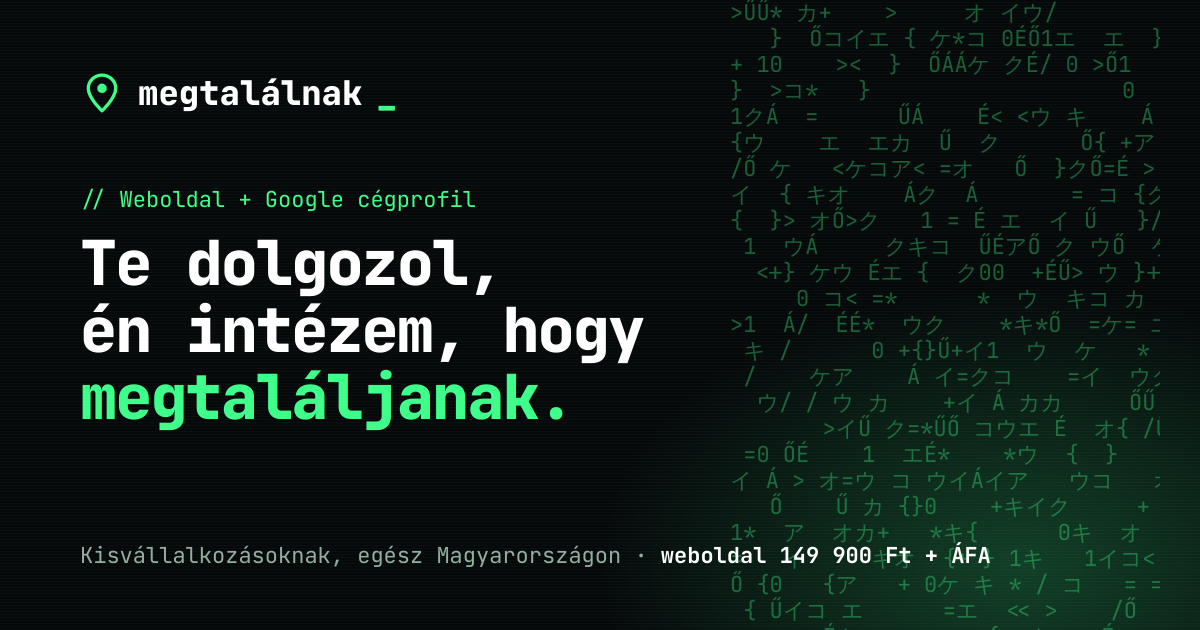
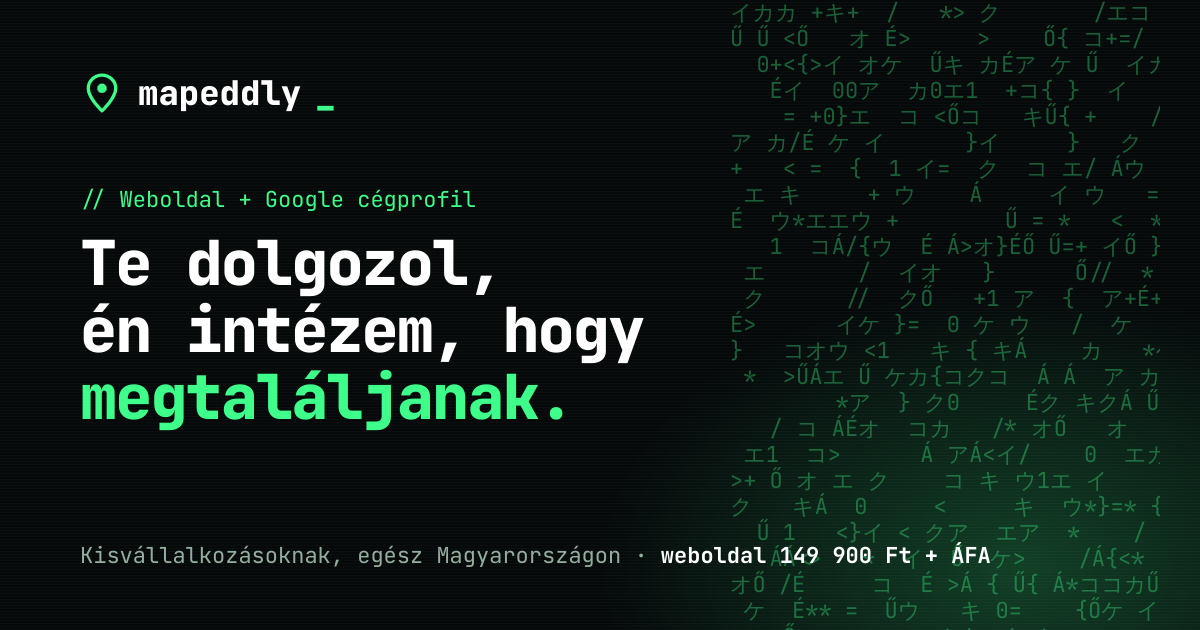
Átállás mapeddly.com domainre

Changed region(s): [[0.5858, 0.0, 0.9867, 1.0], [0.6167, 0.8746, 0.7092, 1.0], [0.1233, 0.1206, 0.3392, 0.181]]

diff --git a/index.html b/index.html
@@ -3,21 +3,21 @@
 <head>
 <meta charset="utf-8">
 <meta name="viewport" content="width=device-width, initial-scale=1, viewport-fit=cover">
-<title>Weboldal készítés és Google cégprofil | Megtalálnak</title>
+<title>Weboldal készítés és Google cégprofil | Mapeddly</title>
 <meta name="description" content="Weboldal készítés kisvállalkozásoknak és vállalkozóknak egész Magyarországon: gyors, mobilbarát honlap, Google cégprofil beállítás és havidíjas karbantartás. Kérj ingyenes ajánlatot!">
 <meta property="og:type" content="website">
-<meta property="og:title" content="Weboldal készítés és Google cégprofil | Megtalálnak">
+<meta property="og:title" content="Weboldal készítés és Google cégprofil | Mapeddly">
 <meta property="og:description" content="Te dolgozol, én intézem, hogy megtaláljanak.">
-<meta property="og:url" content="https://techmoon7.github.io/megtalalnak/">
-<meta property="og:image" content="https://techmoon7.github.io/megtalalnak/assets/img/og-image.png">
+<meta property="og:url" content="https://mapeddly.com/">
+<meta property="og:image" content="https://mapeddly.com/assets/img/og-image.png">
 <meta property="og:image:width" content="1200">
 <meta property="og:image:height" content="630">
 <meta name="twitter:card" content="summary_large_image">
 <meta property="og:locale" content="hu_HU">
-<link rel="canonical" href="https://techmoon7.github.io/megtalalnak/">
-<link rel="alternate" hreflang="hu" href="https://techmoon7.github.io/megtalalnak/">
-<link rel="alternate" hreflang="en" href="https://techmoon7.github.io/megtalalnak/en/">
-<link rel="alternate" hreflang="x-default" href="https://techmoon7.github.io/megtalalnak/">
+<link rel="canonical" href="https://mapeddly.com/">
+<link rel="alternate" hreflang="hu" href="https://mapeddly.com/">
+<link rel="alternate" hreflang="en" href="https://mapeddly.com/en/">
+<link rel="alternate" hreflang="x-default" href="https://mapeddly.com/">
 <link rel="apple-touch-icon" href="assets/img/apple-touch-icon.png">
 <link rel="icon" href="assets/img/favicon.svg" type="image/svg+xml">
 <link rel="preload" href="assets/fonts/jetbrains-mono-latin-800-normal.woff2" as="font" type="font/woff2" crossorigin>
@@ -25,7 +25,7 @@
 <link rel="stylesheet" href="assets/fonts/fonts.css">
 <link rel="stylesheet" href="assets/css/style.css">
 <script type="application/ld+json">
-{"@context":"https://schema.org","@type":"ProfessionalService","name":"Megtalálnak","founder":{"@type":"Person","name":"Hantos István"},"description":"Weboldal készítés, honlapkészítés és Google cégprofil beállítás kisvállalkozásoknak egész Magyarországon.","telephone":"+36 20 667 1832","email":"contactcreativefabrication@gmail.com","areaServed":{"@type":"Country","name":"Magyarország"},"serviceType":["Weboldal készítés","Honlapkészítés","Google cégprofil beállítás","Weboldal karbantartás"],"image":"https://techmoon7.github.io/megtalalnak/assets/img/og-image.png","url":"https://techmoon7.github.io/megtalalnak/"}
+{"@context":"https://schema.org","@type":"ProfessionalService","name":"Mapeddly","founder":{"@type":"Person","name":"Hantos István"},"description":"Weboldal készítés, honlapkészítés és Google cégprofil beállítás kisvállalkozásoknak egész Magyarországon.","telephone":"+36 20 667 1832","email":"contactcreativefabrication@gmail.com","areaServed":{"@type":"Country","name":"Magyarország"},"serviceType":["Weboldal készítés","Honlapkészítés","Google cégprofil beállítás","Weboldal karbantartás"],"image":"https://mapeddly.com/assets/img/og-image.png","url":"https://mapeddly.com/"}
 </script>
 </head>
 <body>
@@ -33,9 +33,9 @@
 
 <header class="top">
 <div class="wrap">
-<a class="brand" href="#tartalom" aria-label="Megtalálnak – az oldal eleje">
+<a class="brand" href="#tartalom" aria-label="Mapeddly – az oldal eleje">
 <svg aria-hidden="true" width="30" height="30" viewBox="0 0 32 32"><path d="M16 3c-5.5 0-10 4.3-10 9.6C6 19.6 16 29 16 29s10-9.4 10-16.4C26 7.3 21.5 3 16 3z" fill="none" stroke="#3DFF8A" stroke-width="2.4"></path><circle cx="16" cy="12.6" r="3.4" fill="#3DFF8A"></circle></svg>
-megtalálnak<span class="dot">_</span></a>
+mapeddly<span class="dot">_</span></a>
 <nav class="nav" aria-label="Fő menü">
 <a href="#csomagok">Csomagok</a>
 <a href="#gyik">Kérdések</a>
@@ -266,10 +266,10 @@ megtalálnak<span class="dot">_</span></a>
 
 <footer class="foot">
 <div class="wrap">
-<div><a class="brand" href="#tartalom">megtalálnak<span class="dot">_</span></a><p>Weboldal készítés és Google cégprofil kisvállalkozásoknak, egész Magyarországon.</p></div>
+<div><a class="brand" href="#tartalom">mapeddly<span class="dot">_</span></a><p>Weboldal készítés és Google cégprofil kisvállalkozásoknak, egész Magyarországon.</p></div>
 <div><strong>Elérhetőség</strong><p><a href="tel:+36206671832">+36 20 667 1832</a><br><a href="mailto:contactcreativefabrication@gmail.com">contactcreativefabrication@gmail.com</a><br><a href="https://wa.me/36206671832" target="_blank" rel="noopener">WhatsApp</a></p></div>
 <div><strong>Impresszum</strong><p>Üzemeltető: Hantos István<br>Cím: 2064 Csabdi, Szőlő-Sor utca 3<br>Tárhely: GitHub, Inc.</p></div>
-<div class="legal"><span>© 2026 Megtalálnak · Hantos István</span><span class="legal-links"><a href="impresszum.html">Impresszum</a><a href="adatvedelem.html">Adatkezelési tájékoztató</a></span></div>
+<div class="legal"><span>© 2026 Mapeddly · Hantos István</span><span class="legal-links"><a href="impresszum.html">Impresszum</a><a href="adatvedelem.html">Adatkezelési tájékoztató</a></span></div>
 </div>
 </footer>
 
@@ -278,7 +278,7 @@ megtalálnak<span class="dot">_</span></a>
 <script>
 (function(){
   var c=document.getElementById('rain');if(!c||!c.getContext)return;
-  var x=c.getContext('2d'),chars='01アイウエオカキクケコサシスセソ<>/{}=+*ÁÉŐŰMEGTALÁLNAK'.split(''),fs=16,cols,drops,w,h;
+  var x=c.getContext('2d'),chars='01アイウエオカキクケコサシスセソ<>/{}=+*ÁÉŐŰMAPEDDLY'.split(''),fs=16,cols,drops,w,h;
   function size(){var r=c.getBoundingClientRect(),d=Math.min(window.devicePixelRatio||1,2);w=r.width;h=r.height;c.width=w*d;c.height=h*d;x.setTransform(d,0,0,d,0,0);cols=Math.ceil(w/fs);drops=[];for(var i=0;i<cols;i++)drops[i]=Math.random()*-h/fs;x.fillStyle='#05090A';x.fillRect(0,0,w,h)}
   function frame(){x.fillStyle='rgba(5,9,10,0.06)';x.fillRect(0,0,w,h);x.font=fs+'px "JetBrains Mono",monospace';
     for(var i=0;i<cols;i++){var ch=chars[(Math.random()*chars.length)|0],y=drops[i]*fs;
@@ -299,7 +299,7 @@ megtalálnak<span class="dot">_</span></a>
     if(navigator.clipboard)navigator.clipboard.writeText(t).then(done,function(){});
   })});
   var form=document.getElementById('ajanlat'),msg=document.getElementById('f-msg');if(!form)return;
-  var T={name:'Kérlek, add meg a neved.',tel:'Kérlek, add meg a telefonszámod, hogy vissza tudjalak hívni.',mail:'Ez az e-mail cím nem tűnik helyesnek.',msg:'Írj pár szót arról, mire van szükséged.',ok:'Az elküldéshez fogadd el az adatkezelési tájékoztatót.',opening:'Megnyílt a WhatsApp az előre megírt üzenettel. Ha nem nyílt meg, írj közvetlenül: ',sending:'Küldés…',sent:'Köszönöm, megkaptam az üzeneted! Hamarosan jelentkezem.',failed:'Nem sikerült elküldeni. Próbáld WhatsAppon, vagy írj közvetlenül: ',hello:'Szia! Ajánlatot kérnék a megtalalnak oldalról.',n:'Név',ph:'Telefon',em:'E-mail',b:'Tevékenység',p:'Csomag',w:'Jelenlegi weboldal',m:'Üzenet',subj:'Ajánlatkérés – weboldal'};
+  var T={name:'Kérlek, add meg a neved.',tel:'Kérlek, add meg a telefonszámod, hogy vissza tudjalak hívni.',mail:'Ez az e-mail cím nem tűnik helyesnek.',msg:'Írj pár szót arról, mire van szükséged.',ok:'Az elküldéshez fogadd el az adatkezelési tájékoztatót.',opening:'Megnyílt a WhatsApp az előre megírt üzenettel. Ha nem nyílt meg, írj közvetlenül: ',sending:'Küldés…',sent:'Köszönöm, megkaptam az üzeneted! Hamarosan jelentkezem.',failed:'Nem sikerült elküldeni. Próbáld WhatsAppon, vagy írj közvetlenül: ',hello:'Szia! Ajánlatot kérnék a mapeddly.com oldalról.',n:'Név',ph:'Telefon',em:'E-mail',b:'Tevékenység',p:'Csomag',w:'Jelenlegi weboldal',m:'Üzenet',subj:'Ajánlatkérés – weboldal'};
   var via='send';form.querySelectorAll('[data-via]').forEach(function(b){b.addEventListener('click',function(){via=b.getAttribute('data-via')})});
   var sendBtn=form.querySelector('[data-via="send"]'),sendLabel=sendBtn.textContent;
   function say(t,cls){msg.hidden=false;msg.className='form-msg'+(cls?' '+cls:'');msg.textContent=t}

diff --git a/en/index.html b/en/index.html
@@ -3,21 +3,21 @@
 <head>
 <meta charset="utf-8">
 <meta name="viewport" content="width=device-width, initial-scale=1, viewport-fit=cover">
-<title>Small Business Website Design in Hungary | Megtalálnak</title>
+<title>Small Business Website Design in Hungary | Mapeddly</title>
 <meta name="description" content="Website design for small businesses anywhere in Hungary: fast, mobile-friendly websites, Google Business Profile setup and monthly care. Get a free quote.">
 <meta property="og:type" content="website">
-<meta property="og:title" content="Small Business Website Design in Hungary | Megtalálnak">
+<meta property="og:title" content="Small Business Website Design in Hungary | Mapeddly">
 <meta property="og:description" content="You do the work. I make sure you get found.">
-<meta property="og:url" content="https://techmoon7.github.io/megtalalnak/en/">
-<meta property="og:image" content="https://techmoon7.github.io/megtalalnak/assets/img/og-image.png">
+<meta property="og:url" content="https://mapeddly.com/en/">
+<meta property="og:image" content="https://mapeddly.com/assets/img/og-image.png">
 <meta property="og:image:width" content="1200">
 <meta property="og:image:height" content="630">
 <meta name="twitter:card" content="summary_large_image">
 <meta property="og:locale" content="en_GB">
-<link rel="canonical" href="https://techmoon7.github.io/megtalalnak/en/">
-<link rel="alternate" hreflang="hu" href="https://techmoon7.github.io/megtalalnak/">
-<link rel="alternate" hreflang="en" href="https://techmoon7.github.io/megtalalnak/en/">
-<link rel="alternate" hreflang="x-default" href="https://techmoon7.github.io/megtalalnak/">
+<link rel="canonical" href="https://mapeddly.com/en/">
+<link rel="alternate" hreflang="hu" href="https://mapeddly.com/">
+<link rel="alternate" hreflang="en" href="https://mapeddly.com/en/">
+<link rel="alternate" hreflang="x-default" href="https://mapeddly.com/">
 <link rel="apple-touch-icon" href="../assets/img/apple-touch-icon.png">
 <link rel="icon" href="../assets/img/favicon.svg" type="image/svg+xml">
 <link rel="preload" href="../assets/fonts/jetbrains-mono-latin-800-normal.woff2" as="font" type="font/woff2" crossorigin>
@@ -25,7 +25,7 @@
 <link rel="stylesheet" href="../assets/fonts/fonts.css">
 <link rel="stylesheet" href="../assets/css/style.css">
 <script type="application/ld+json">
-{"@context":"https://schema.org","@type":"ProfessionalService","name":"Megtalálnak","founder":{"@type":"Person","name":"Hantos István"},"description":"Website design and Google Business Profile setup for small businesses across Hungary.","telephone":"+36 20 667 1832","email":"contactcreativefabrication@gmail.com","areaServed":{"@type":"Country","name":"Hungary"},"serviceType":["Website design","Google Business Profile setup","Website maintenance"],"image":"https://techmoon7.github.io/megtalalnak/assets/img/og-image.png","url":"https://techmoon7.github.io/megtalalnak/en/"}
+{"@context":"https://schema.org","@type":"ProfessionalService","name":"Mapeddly","founder":{"@type":"Person","name":"Hantos István"},"description":"Website design and Google Business Profile setup for small businesses across Hungary.","telephone":"+36 20 667 1832","email":"contactcreativefabrication@gmail.com","areaServed":{"@type":"Country","name":"Hungary"},"serviceType":["Website design","Google Business Profile setup","Website maintenance"],"image":"https://mapeddly.com/assets/img/og-image.png","url":"https://mapeddly.com/en/"}
 </script>
 </head>
 <body>
@@ -33,9 +33,9 @@
 
 <header class="top">
 <div class="wrap">
-<a class="brand" href="#tartalom" aria-label="Megtalálnak – top of page">
+<a class="brand" href="#tartalom" aria-label="Mapeddly – top of page">
 <svg aria-hidden="true" width="30" height="30" viewBox="0 0 32 32"><path d="M16 3c-5.5 0-10 4.3-10 9.6C6 19.6 16 29 16 29s10-9.4 10-16.4C26 7.3 21.5 3 16 3z" fill="none" stroke="#3DFF8A" stroke-width="2.4"></path><circle cx="16" cy="12.6" r="3.4" fill="#3DFF8A"></circle></svg>
-megtalálnak<span class="dot">_</span></a>
+mapeddly<span class="dot">_</span></a>
 <nav class="nav" aria-label="Main menu">
 <a href="#csomagok">Packages</a>
 <a href="#gyik">FAQ</a>
@@ -266,10 +266,10 @@ megtalálnak<span class="dot">_</span></a>
 
 <footer class="foot">
 <div class="wrap">
-<div><a class="brand" href="#tartalom">megtalálnak<span class="dot">_</span></a><p>Website design and Google Business Profile setup for small businesses across Hungary.</p></div>
+<div><a class="brand" href="#tartalom">mapeddly<span class="dot">_</span></a><p>Website design and Google Business Profile setup for small businesses across Hungary.</p></div>
 <div><strong>Contact</strong><p><a href="tel:+36206671832">+36 20 667 1832</a><br><a href="mailto:contactcreativefabrication@gmail.com">contactcreativefabrication@gmail.com</a><br><a href="https://wa.me/36206671832" target="_blank" rel="noopener">WhatsApp</a></p></div>
 <div><strong>Legal notice</strong><p>Operator: István Hantos<br>Address: Szőlő-Sor utca 3, 2064 Csabdi, Hungary<br>Hosting: GitHub, Inc.</p></div>
-<div class="legal"><span>© 2026 Megtalálnak · Hantos István</span><span class="legal-links"><a href="imprint.html">Legal notice</a><a href="privacy.html">Privacy notice</a></span></div>
+<div class="legal"><span>© 2026 Mapeddly · Hantos István</span><span class="legal-links"><a href="imprint.html">Legal notice</a><a href="privacy.html">Privacy notice</a></span></div>
 </div>
 </footer>
 
@@ -278,7 +278,7 @@ megtalálnak<span class="dot">_</span></a>
 <script>
 (function(){
   var c=document.getElementById('rain');if(!c||!c.getContext)return;
-  var x=c.getContext('2d'),chars='01アイウエオカキクケコサシスセソ<>/{}=+*ÁÉŐŰMEGTALÁLNAK'.split(''),fs=16,cols,drops,w,h;
+  var x=c.getContext('2d'),chars='01アイウエオカキクケコサシスセソ<>/{}=+*ÁÉŐŰMAPEDDLY'.split(''),fs=16,cols,drops,w,h;
   function size(){var r=c.getBoundingClientRect(),d=Math.min(window.devicePixelRatio||1,2);w=r.width;h=r.height;c.width=w*d;c.height=h*d;x.setTransform(d,0,0,d,0,0);cols=Math.ceil(w/fs);drops=[];for(var i=0;i<cols;i++)drops[i]=Math.random()*-h/fs;x.fillStyle='#05090A';x.fillRect(0,0,w,h)}
   function frame(){x.fillStyle='rgba(5,9,10,0.06)';x.fillRect(0,0,w,h);x.font=fs+'px "JetBrains Mono",monospace';
     for(var i=0;i<cols;i++){var ch=chars[(Math.random()*chars.length)|0],y=drops[i]*fs;
@@ -299,7 +299,7 @@ megtalálnak<span class="dot">_</span></a>
     if(navigator.clipboard)navigator.clipboard.writeText(t).then(done,function(){});
   })});
   var form=document.getElementById('ajanlat'),msg=document.getElementById('f-msg');if(!form)return;
-  var T={name:'Please enter your name.',tel:'Please enter your phone number so I can call you back.',mail:"This email address doesn't look right.",msg:'Please write a few words about what you need.',ok:'Please accept the privacy notice to continue.',opening:"WhatsApp opened with your message ready. If it didn't open, write to me directly: ",sending:'Sending…',sent:"Thank you, I got your message! I'll be in touch soon.",failed:'Sending failed. Try WhatsApp, or write to me directly: ',hello:"Hi! I'd like a quote, via the megtalalnak site.",n:'Name',ph:'Phone',em:'Email',b:'Business type',p:'Package',w:'Current website',m:'Message',subj:'Quote request – website'};
+  var T={name:'Please enter your name.',tel:'Please enter your phone number so I can call you back.',mail:"This email address doesn't look right.",msg:'Please write a few words about what you need.',ok:'Please accept the privacy notice to continue.',opening:"WhatsApp opened with your message ready. If it didn't open, write to me directly: ",sending:'Sending…',sent:"Thank you, I got your message! I'll be in touch soon.",failed:'Sending failed. Try WhatsApp, or write to me directly: ',hello:"Hi! I'd like a quote, via mapeddly.com.",n:'Name',ph:'Phone',em:'Email',b:'Business type',p:'Package',w:'Current website',m:'Message',subj:'Quote request – website'};
   var via='send';form.querySelectorAll('[data-via]').forEach(function(b){b.addEventListener('click',function(){via=b.getAttribute('data-via')})});
   var sendBtn=form.querySelector('[data-via="send"]'),sendLabel=sendBtn.textContent;
   function say(t,cls){msg.hidden=false;msg.className='form-msg'+(cls?' '+cls:'');msg.textContent=t}

diff --git a/adatvedelem.html b/adatvedelem.html
@@ -3,22 +3,22 @@
 <head>
 <meta charset="utf-8">
 <meta name="viewport" content="width=device-width, initial-scale=1, viewport-fit=cover">
-<title>Adatkezelési tájékoztató – Megtalálnak</title>
-<meta name="description" content="Hogyan kezeli a Megtalálnak weboldal az ajánlatkérő űrlapon és a kapcsolatfelvétel során megadott adatokat.">
-<link rel="canonical" href="https://techmoon7.github.io/megtalalnak/adatvedelem.html">
-<link rel="alternate" hreflang="hu" href="https://techmoon7.github.io/megtalalnak/adatvedelem.html">
-<link rel="alternate" hreflang="en" href="https://techmoon7.github.io/megtalalnak/en/privacy.html">
-<link rel="alternate" hreflang="x-default" href="https://techmoon7.github.io/megtalalnak/adatvedelem.html">
+<title>Adatkezelési tájékoztató – Mapeddly</title>
+<meta name="description" content="Hogyan kezeli a Mapeddly weboldal az ajánlatkérő űrlapon és a kapcsolatfelvétel során megadott adatokat.">
+<link rel="canonical" href="https://mapeddly.com/adatvedelem.html">
+<link rel="alternate" hreflang="hu" href="https://mapeddly.com/adatvedelem.html">
+<link rel="alternate" hreflang="en" href="https://mapeddly.com/en/privacy.html">
+<link rel="alternate" hreflang="x-default" href="https://mapeddly.com/adatvedelem.html">
 <link rel="apple-touch-icon" href="assets/img/apple-touch-icon.png">
 <link rel="icon" href="assets/img/favicon.svg" type="image/svg+xml">
 <link rel="stylesheet" href="assets/fonts/fonts.css">
 <link rel="stylesheet" href="assets/css/style.css">
 </head>
 <body>
-<header class="top"><div class="wrap"><a class="brand" href="index.html"><svg aria-hidden="true" width="30" height="30" viewBox="0 0 32 32"><path d="M16 3c-5.5 0-10 4.3-10 9.6C6 19.6 16 29 16 29s10-9.4 10-16.4C26 7.3 21.5 3 16 3z" fill="none" stroke="#3DFF8A" stroke-width="2.4"></path><circle cx="16" cy="12.6" r="3.4" fill="#3DFF8A"></circle></svg>megtalálnak<span class="dot">_</span></a><nav class="nav" aria-label="Fő menü"><span class="lang-switch" role="group" aria-label="Nyelv / Language"><a href="adatvedelem.html" hreflang="hu" lang="hu" aria-current="true">HU</a><a href="en/privacy.html" hreflang="en" lang="en">EN</a></span><a class="btn btn-primary" href="index.html#kapcsolat">Ajánlatot kérek</a></nav></div></header>
+<header class="top"><div class="wrap"><a class="brand" href="index.html"><svg aria-hidden="true" width="30" height="30" viewBox="0 0 32 32"><path d="M16 3c-5.5 0-10 4.3-10 9.6C6 19.6 16 29 16 29s10-9.4 10-16.4C26 7.3 21.5 3 16 3z" fill="none" stroke="#3DFF8A" stroke-width="2.4"></path><circle cx="16" cy="12.6" r="3.4" fill="#3DFF8A"></circle></svg>mapeddly<span class="dot">_</span></a><nav class="nav" aria-label="Fő menü"><span class="lang-switch" role="group" aria-label="Nyelv / Language"><a href="adatvedelem.html" hreflang="hu" lang="hu" aria-current="true">HU</a><a href="en/privacy.html" hreflang="en" lang="en">EN</a></span><a class="btn btn-primary" href="index.html#kapcsolat">Ajánlatot kérek</a></nav></div></header>
 <main class="wrap doc">
 <h1>Adatkezelési tájékoztató</h1>
-<p>Ez a tájékoztató azt írja le, milyen személyes adatokat kezelek a techmoon7.github.io/megtalalnak weboldallal és az onnan indított kapcsolatfelvétellel összefüggésben, milyen célból és meddig, valamint milyen jogai vannak ezzel kapcsolatban. A tájékoztató az (EU) 2016/679 rendelet (általános adatvédelmi rendelet, GDPR) 13. cikke alapján készült. Kelt: 2026. október 11.</p>
+<p>Ez a tájékoztató azt írja le, milyen személyes adatokat kezelek a mapeddly.com weboldallal és az onnan indított kapcsolatfelvétellel összefüggésben, milyen célból és meddig, valamint milyen jogai vannak ezzel kapcsolatban. A tájékoztató az (EU) 2016/679 rendelet (általános adatvédelmi rendelet, GDPR) 13. cikke alapján készült. Kelt: 2026. október 11.</p>
 <h2>1. Az adatkezelő</h2>
 <p>Név: Hantos István<br>Cím: 2064 Csabdi, Szőlő-Sor utca 3, Magyarország<br>E-mail: contactcreativefabrication@gmail.com<br>Telefon: +36 20 667 1832</p>
 <h2>2. Röviden</h2>

diff --git a/en/privacy.html b/en/privacy.html
@@ -3,22 +3,22 @@
 <head>
 <meta charset="utf-8">
 <meta name="viewport" content="width=device-width, initial-scale=1, viewport-fit=cover">
-<title>Privacy notice – Megtalálnak</title>
-<meta name="description" content="How the Megtalálnak website handles the data you share through the quote form and when you contact me.">
-<link rel="canonical" href="https://techmoon7.github.io/megtalalnak/en/privacy.html">
-<link rel="alternate" hreflang="hu" href="https://techmoon7.github.io/megtalalnak/adatvedelem.html">
-<link rel="alternate" hreflang="en" href="https://techmoon7.github.io/megtalalnak/en/privacy.html">
-<link rel="alternate" hreflang="x-default" href="https://techmoon7.github.io/megtalalnak/adatvedelem.html">
+<title>Privacy notice – Mapeddly</title>
+<meta name="description" content="How the Mapeddly website handles the data you share through the quote form and when you contact me.">
+<link rel="canonical" href="https://mapeddly.com/en/privacy.html">
+<link rel="alternate" hreflang="hu" href="https://mapeddly.com/adatvedelem.html">
+<link rel="alternate" hreflang="en" href="https://mapeddly.com/en/privacy.html">
+<link rel="alternate" hreflang="x-default" href="https://mapeddly.com/adatvedelem.html">
 <link rel="apple-touch-icon" href="../assets/img/apple-touch-icon.png">
 <link rel="icon" href="../assets/img/favicon.svg" type="image/svg+xml">
 <link rel="stylesheet" href="../assets/fonts/fonts.css">
 <link rel="stylesheet" href="../assets/css/style.css">
 </head>
 <body>
-<header class="top"><div class="wrap"><a class="brand" href="index.html"><svg aria-hidden="true" width="30" height="30" viewBox="0 0 32 32"><path d="M16 3c-5.5 0-10 4.3-10 9.6C6 19.6 16 29 16 29s10-9.4 10-16.4C26 7.3 21.5 3 16 3z" fill="none" stroke="#3DFF8A" stroke-width="2.4"></path><circle cx="16" cy="12.6" r="3.4" fill="#3DFF8A"></circle></svg>megtalálnak<span class="dot">_</span></a><nav class="nav" aria-label="Main menu"><span class="lang-switch" role="group" aria-label="Nyelv / Language"><a href="../adatvedelem.html" hreflang="hu" lang="hu">HU</a><a href="privacy.html" hreflang="en" lang="en" aria-current="true">EN</a></span><a class="btn btn-primary" href="index.html#kapcsolat">Get a quote</a></nav></div></header>
+<header class="top"><div class="wrap"><a class="brand" href="index.html"><svg aria-hidden="true" width="30" height="30" viewBox="0 0 32 32"><path d="M16 3c-5.5 0-10 4.3-10 9.6C6 19.6 16 29 16 29s10-9.4 10-16.4C26 7.3 21.5 3 16 3z" fill="none" stroke="#3DFF8A" stroke-width="2.4"></path><circle cx="16" cy="12.6" r="3.4" fill="#3DFF8A"></circle></svg>mapeddly<span class="dot">_</span></a><nav class="nav" aria-label="Main menu"><span class="lang-switch" role="group" aria-label="Nyelv / Language"><a href="../adatvedelem.html" hreflang="hu" lang="hu">HU</a><a href="privacy.html" hreflang="en" lang="en" aria-current="true">EN</a></span><a class="btn btn-primary" href="index.html#kapcsolat">Get a quote</a></nav></div></header>
 <main class="wrap doc">
 <h1>Privacy notice</h1>
-<p>This notice describes what personal data I process in connection with the website techmoon7.github.io/megtalalnak and contact started from it, for what purpose and for how long, and what rights you have. It is based on Article 13 of Regulation (EU) 2016/679 (General Data Protection Regulation, GDPR). Date: 11 October 2026.</p>
+<p>This notice describes what personal data I process in connection with the website mapeddly.com and contact started from it, for what purpose and for how long, and what rights you have. It is based on Article 13 of Regulation (EU) 2016/679 (General Data Protection Regulation, GDPR). Date: 11 October 2026.</p>
 <h2>1. Data controller</h2>
 <p>Name: István Hantos<br>Address: Szőlő-Sor utca 3, 2064 Csabdi, Hungary<br>Email: contactcreativefabrication@gmail.com<br>Phone: +36 20 667 1832</p>
 <h2>2. In short</h2>

diff --git a/impresszum.html b/impresszum.html
@@ -3,19 +3,19 @@
 <head>
 <meta charset="utf-8">
 <meta name="viewport" content="width=device-width, initial-scale=1, viewport-fit=cover">
-<title>Impresszum – Megtalálnak</title>
-<meta name="description" content="A Megtalálnak weboldal üzemeltetőjének adatai: Hantos István, Csabdi.">
-<link rel="canonical" href="https://techmoon7.github.io/megtalalnak/impresszum.html">
-<link rel="alternate" hreflang="hu" href="https://techmoon7.github.io/megtalalnak/impresszum.html">
-<link rel="alternate" hreflang="en" href="https://techmoon7.github.io/megtalalnak/en/imprint.html">
-<link rel="alternate" hreflang="x-default" href="https://techmoon7.github.io/megtalalnak/impresszum.html">
+<title>Impresszum – Mapeddly</title>
+<meta name="description" content="A Mapeddly weboldal üzemeltetőjének adatai: Hantos István, Csabdi.">
+<link rel="canonical" href="https://mapeddly.com/impresszum.html">
+<link rel="alternate" hreflang="hu" href="https://mapeddly.com/impresszum.html">
+<link rel="alternate" hreflang="en" href="https://mapeddly.com/en/imprint.html">
+<link rel="alternate" hreflang="x-default" href="https://mapeddly.com/impresszum.html">
 <link rel="apple-touch-icon" href="assets/img/apple-touch-icon.png">
 <link rel="icon" href="assets/img/favicon.svg" type="image/svg+xml">
 <link rel="stylesheet" href="assets/fonts/fonts.css">
 <link rel="stylesheet" href="assets/css/style.css">
 </head>
 <body>
-<header class="top"><div class="wrap"><a class="brand" href="index.html"><svg aria-hidden="true" width="30" height="30" viewBox="0 0 32 32"><path d="M16 3c-5.5 0-10 4.3-10 9.6C6 19.6 16 29 16 29s10-9.4 10-16.4C26 7.3 21.5 3 16 3z" fill="none" stroke="#3DFF8A" stroke-width="2.4"></path><circle cx="16" cy="12.6" r="3.4" fill="#3DFF8A"></circle></svg>megtalálnak<span class="dot">_</span></a><nav class="nav" aria-label="Fő menü"><span class="lang-switch" role="group" aria-label="Nyelv / Language"><a href="impresszum.html" hreflang="hu" lang="hu" aria-current="true">HU</a><a href="en/imprint.html" hreflang="en" lang="en">EN</a></span><a class="btn btn-primary" href="index.html#kapcsolat">Ajánlatot kérek</a></nav></div></header>
+<header class="top"><div class="wrap"><a class="brand" href="index.html"><svg aria-hidden="true" width="30" height="30" viewBox="0 0 32 32"><path d="M16 3c-5.5 0-10 4.3-10 9.6C6 19.6 16 29 16 29s10-9.4 10-16.4C26 7.3 21.5 3 16 3z" fill="none" stroke="#3DFF8A" stroke-width="2.4"></path><circle cx="16" cy="12.6" r="3.4" fill="#3DFF8A"></circle></svg>mapeddly<span class="dot">_</span></a><nav class="nav" aria-label="Fő menü"><span class="lang-switch" role="group" aria-label="Nyelv / Language"><a href="impresszum.html" hreflang="hu" lang="hu" aria-current="true">HU</a><a href="en/imprint.html" hreflang="en" lang="en">EN</a></span><a class="btn btn-primary" href="index.html#kapcsolat">Ajánlatot kérek</a></nav></div></header>
 <main class="wrap doc">
 <h1>Impresszum</h1>
 <p>Az elektronikus kereskedelmi szolgáltatások, valamint az információs társadalommal összefüggő szolgáltatások egyes kérdéseiről szóló 2001. évi CVIII. törvény alapján az alábbi adatokat teszem közzé.</p>

diff --git a/en/imprint.html b/en/imprint.html
@@ -3,19 +3,19 @@
 <head>
 <meta charset="utf-8">
 <meta name="viewport" content="width=device-width, initial-scale=1, viewport-fit=cover">
-<title>Legal notice – Megtalálnak</title>
-<meta name="description" content="Operator details for the Megtalálnak website: István Hantos, Csabdi, Hungary.">
-<link rel="canonical" href="https://techmoon7.github.io/megtalalnak/en/imprint.html">
-<link rel="alternate" hreflang="hu" href="https://techmoon7.github.io/megtalalnak/impresszum.html">
-<link rel="alternate" hreflang="en" href="https://techmoon7.github.io/megtalalnak/en/imprint.html">
-<link rel="alternate" hreflang="x-default" href="https://techmoon7.github.io/megtalalnak/impresszum.html">
+<title>Legal notice – Mapeddly</title>
+<meta name="description" content="Operator details for the Mapeddly website: István Hantos, Csabdi, Hungary.">
+<link rel="canonical" href="https://mapeddly.com/en/imprint.html">
+<link rel="alternate" hreflang="hu" href="https://mapeddly.com/impresszum.html">
+<link rel="alternate" hreflang="en" href="https://mapeddly.com/en/imprint.html">
+<link rel="alternate" hreflang="x-default" href="https://mapeddly.com/impresszum.html">
 <link rel="apple-touch-icon" href="../assets/img/apple-touch-icon.png">
 <link rel="icon" href="../assets/img/favicon.svg" type="image/svg+xml">
 <link rel="stylesheet" href="../assets/fonts/fonts.css">
 <link rel="stylesheet" href="../assets/css/style.css">
 </head>
 <body>
-<header class="top"><div class="wrap"><a class="brand" href="index.html"><svg aria-hidden="true" width="30" height="30" viewBox="0 0 32 32"><path d="M16 3c-5.5 0-10 4.3-10 9.6C6 19.6 16 29 16 29s10-9.4 10-16.4C26 7.3 21.5 3 16 3z" fill="none" stroke="#3DFF8A" stroke-width="2.4"></path><circle cx="16" cy="12.6" r="3.4" fill="#3DFF8A"></circle></svg>megtalálnak<span class="dot">_</span></a><nav class="nav" aria-label="Main menu"><span class="lang-switch" role="group" aria-label="Nyelv / Language"><a href="../impresszum.html" hreflang="hu" lang="hu">HU</a><a href="imprint.html" hreflang="en" lang="en" aria-current="true">EN</a></span><a class="btn btn-primary" href="index.html#kapcsolat">Get a quote</a></nav></div></header>
+<header class="top"><div class="wrap"><a class="brand" href="index.html"><svg aria-hidden="true" width="30" height="30" viewBox="0 0 32 32"><path d="M16 3c-5.5 0-10 4.3-10 9.6C6 19.6 16 29 16 29s10-9.4 10-16.4C26 7.3 21.5 3 16 3z" fill="none" stroke="#3DFF8A" stroke-width="2.4"></path><circle cx="16" cy="12.6" r="3.4" fill="#3DFF8A"></circle></svg>mapeddly<span class="dot">_</span></a><nav class="nav" aria-label="Main menu"><span class="lang-switch" role="group" aria-label="Nyelv / Language"><a href="../impresszum.html" hreflang="hu" lang="hu">HU</a><a href="imprint.html" hreflang="en" lang="en" aria-current="true">EN</a></span><a class="btn btn-primary" href="index.html#kapcsolat">Get a quote</a></nav></div></header>
 <main class="wrap doc">
 <h1>Legal notice</h1>
 <p>Published under Hungarian Act CVIII of 2001 on certain aspects of electronic commerce and information society services.</p>

diff --git a/404.html b/404.html
@@ -4,18 +4,18 @@
 <meta charset="utf-8">
 <meta name="robots" content="noindex">
 <meta name="viewport" content="width=device-width, initial-scale=1, viewport-fit=cover">
-<title>Az oldal nem található – Megtalálnak</title>
-<link rel="apple-touch-icon" href="/megtalalnak/assets/img/apple-touch-icon.png">
-<link rel="icon" href="/megtalalnak/assets/img/favicon.svg" type="image/svg+xml">
-<link rel="stylesheet" href="/megtalalnak/assets/fonts/fonts.css">
-<link rel="stylesheet" href="/megtalalnak/assets/css/style.css">
+<title>Az oldal nem található – Mapeddly</title>
+<link rel="apple-touch-icon" href="/assets/img/apple-touch-icon.png">
+<link rel="icon" href="/assets/img/favicon.svg" type="image/svg+xml">
+<link rel="stylesheet" href="/assets/fonts/fonts.css">
+<link rel="stylesheet" href="/assets/css/style.css">
 </head>
 <body>
-<header class="top"><div class="wrap"><a class="brand" href="/megtalalnak/index.html"><svg aria-hidden="true" width="30" height="30" viewBox="0 0 32 32"><path d="M16 3c-5.5 0-10 4.3-10 9.6C6 19.6 16 29 16 29s10-9.4 10-16.4C26 7.3 21.5 3 16 3z" fill="none" stroke="#3DFF8A" stroke-width="2.4"></path><circle cx="16" cy="12.6" r="3.4" fill="#3DFF8A"></circle></svg>megtalálnak<span class="dot">_</span></a><nav class="nav" aria-label="Fő menü"><span class="lang-switch" role="group" aria-label="Nyelv / Language"><a href="/megtalalnak/" hreflang="hu" lang="hu" aria-current="true">HU</a><a href="/megtalalnak/en/" hreflang="en" lang="en">EN</a></span><a class="btn btn-primary" href="/megtalalnak/index.html#kapcsolat">Ajánlatot kérek</a></nav></div></header>
+<header class="top"><div class="wrap"><a class="brand" href="/index.html"><svg aria-hidden="true" width="30" height="30" viewBox="0 0 32 32"><path d="M16 3c-5.5 0-10 4.3-10 9.6C6 19.6 16 29 16 29s10-9.4 10-16.4C26 7.3 21.5 3 16 3z" fill="none" stroke="#3DFF8A" stroke-width="2.4"></path><circle cx="16" cy="12.6" r="3.4" fill="#3DFF8A"></circle></svg>mapeddly<span class="dot">_</span></a><nav class="nav" aria-label="Fő menü"><span class="lang-switch" role="group" aria-label="Nyelv / Language"><a href="/" hreflang="hu" lang="hu" aria-current="true">HU</a><a href="/en/" hreflang="en" lang="en">EN</a></span><a class="btn btn-primary" href="/index.html#kapcsolat">Ajánlatot kérek</a></nav></div></header>
 <main class="wrap doc">
 <h1>Ez az oldal nem található</h1>
 <p>A keresett oldal nem létezik, vagy elköltözött. <span lang="en">This page doesn't exist.</span></p>
-<p><a class="btn btn-primary" href="/megtalalnak/">Vissza a főoldalra</a> <a class="btn btn-line" href="/megtalalnak/en/" lang="en">English home</a></p>
+<p><a class="btn btn-primary" href="/">Vissza a főoldalra</a> <a class="btn btn-line" href="/en/" lang="en">English home</a></p>
 </main>
 </body>
 </html>

diff --git a/README.md b/README.md
@@ -1,49 +1,27 @@
-# Megtalálnak – weboldal
+# Mapeddly – weboldal
 
-Egyszerű, statikus weboldal (HTML + CSS), nincs szükség szerverre vagy adatbázisra.
-Bármilyen tárhelyre feltölthető, vagy ingyen futtatható GitHub Pages / Netlify / Cloudflare Pages alatt.
+A https://mapeddly.com oldal forrása. Statikus weboldal (HTML + CSS), GitHub Pages-en fut, szerver és adatbázis nélkül.
 
 ## Mappák
 
 ```
-index.html            főoldal
-adatvedelem.html      adatkezelési tájékoztató (minta, kitöltendő)
-assets/css/style.css  a főoldal stílusa
-assets/fonts/         betűtípusok (saját tárhelyről, nem a Google-től)
-assets/img/           képek, ikon
+index.html            magyar főoldal
+en/                   angol oldalak (index, privacy, imprint)
+adatvedelem.html      adatkezelési tájékoztató
+impresszum.html       impresszum
+404.html              "nem található" oldal
+assets/css/style.css  stílus
+assets/fonts/         betűtípusok (saját tárhelyről)
+assets/img/           képek, ikon, megosztási kép (og-image.png)
+CNAME                 saját domain: mapeddly.com
 robots.txt, sitemap.xml
+googlee1937f476d8ef491.html   Google Search Console ellenőrzés – NE TÖRÖLD
 ```
 
-## Élesítés előtt kitöltendő
+## Ajánlatkérő űrlap
 
-Minden kitöltendő rész szögletes zárójelben van, és az oldalon sárgával ki van emelve.
-Keress rá a `[` jelre a fájlokban:
+Az űrlap a FormSubmit szolgáltatáson keresztül küld e-mailt, a WhatsApp gomb előre kitöltött üzenetet nyit.
 
-- `[ÁR]` – a három csomag ára
-- `[ÁFA-TARTALOM]`, domain/tárhely díj
-- `[IDŐTARTAM]` – mennyi idő alatt készül el
-- `[NÉV]`, `[TELEPÜLÉS]`, `[TELEFONSZÁM]`, `[E-MAIL]`
-- impresszum: `[VÁLLALKOZÓ NEVE]`, `[CÍM]`, `[ADÓSZÁM]`, `[EV-SZÁM]`
-- `[DOMAIN]` – index.html (ld+json), robots.txt, sitemap.xml
-- a telefonos linkekben (`href="tel:[TELEFONSZÁM]"`) a szám szóközök nélkül, pl. `tel:+36301234567`
+## Domain
 
-A "Megtalálnak" munkanév: használat előtt nézd meg, szabad-e a domain és nem használja-e más.
-
-A fotód helyét az index.html-ben a `portrait` rész jelöli: tegyél egy képet az `assets/img/` mappába,
-és cseréld a `<span>Ide jön a fotód</span>` részt egy `<img src="assets/img/foto.webp" alt="...">` sorra.
-
-## Ajánlatkérő űrlap bekötése
-
-Statikus oldalon az űrlapnak kell egy fogadó szolgáltatás. A legegyszerűbb a Formspree (ingyenes csomag van):
-
-1. Regisztrálj, hozz létre egy űrlapot, kapsz egy címet, pl. `https://formspree.io/f/abcd1234`.
-2. Az index.html-ben a `data-endpoint=""` részbe írd be ezt a címet.
-
-Netlify-on helyette a beépített Netlify Forms is használható.
-
-## Feltöltés GitHub Pages-re
-
-1. Hozz létre egy új repository-t a GitHubon.
-2. Töltsd fel ennek a mappának a teljes tartalmát.
-3. Settings → Pages → Branch: `main`, mappa: `/ (root)` → Save.
-4. Saját domainhez: Settings → Pages → Custom domain, és a domain DNS-ében állítsd be a GitHub által kért rekordokat.
+DNS a Websupportnál: 4 A rekord (185.199.108.153, .109, .110, .111) és `www` CNAME → techmoon7.github.io.
